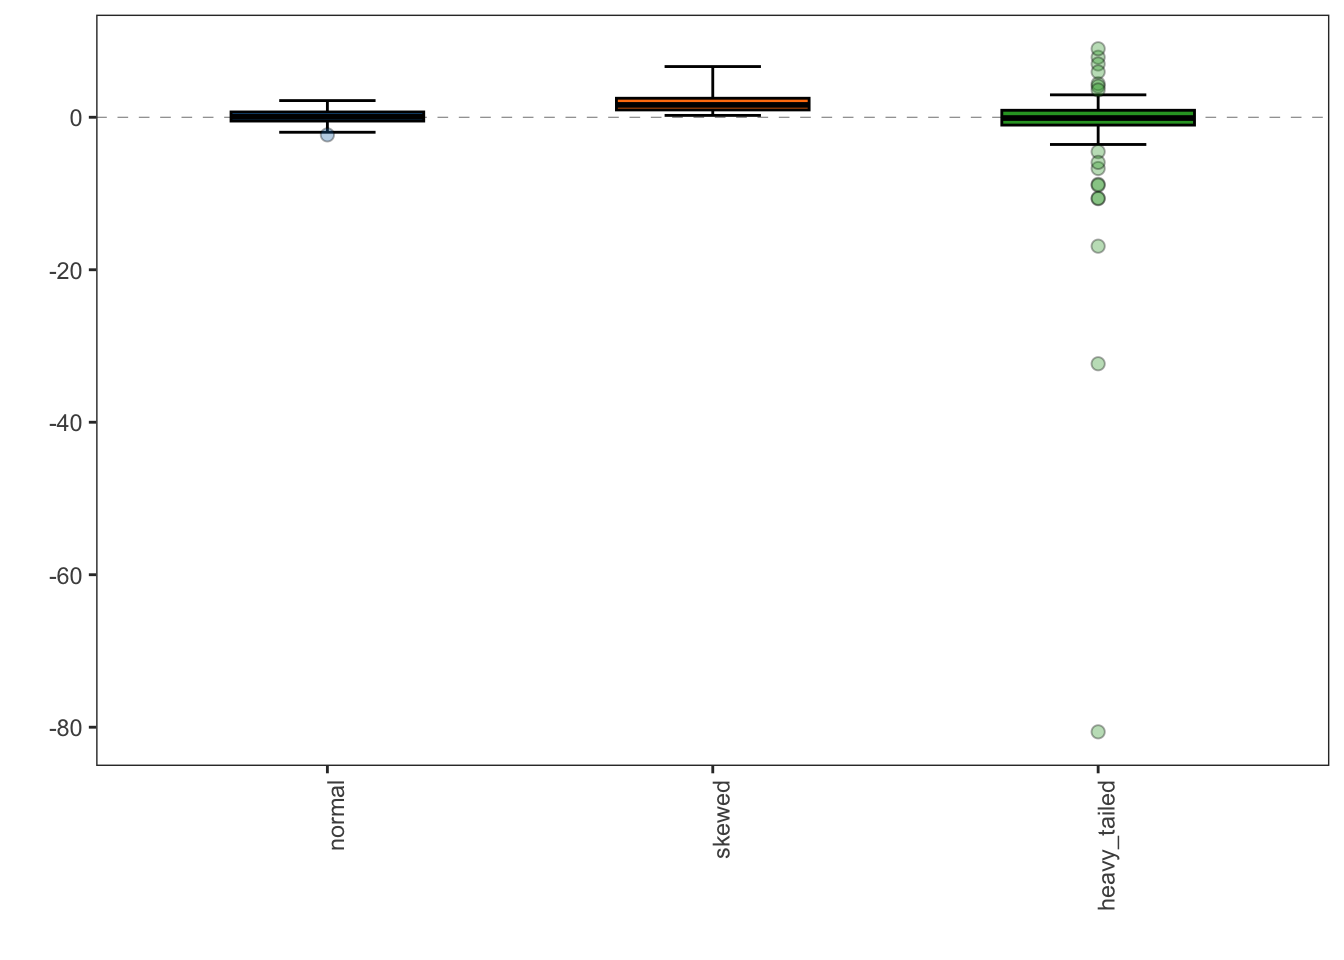
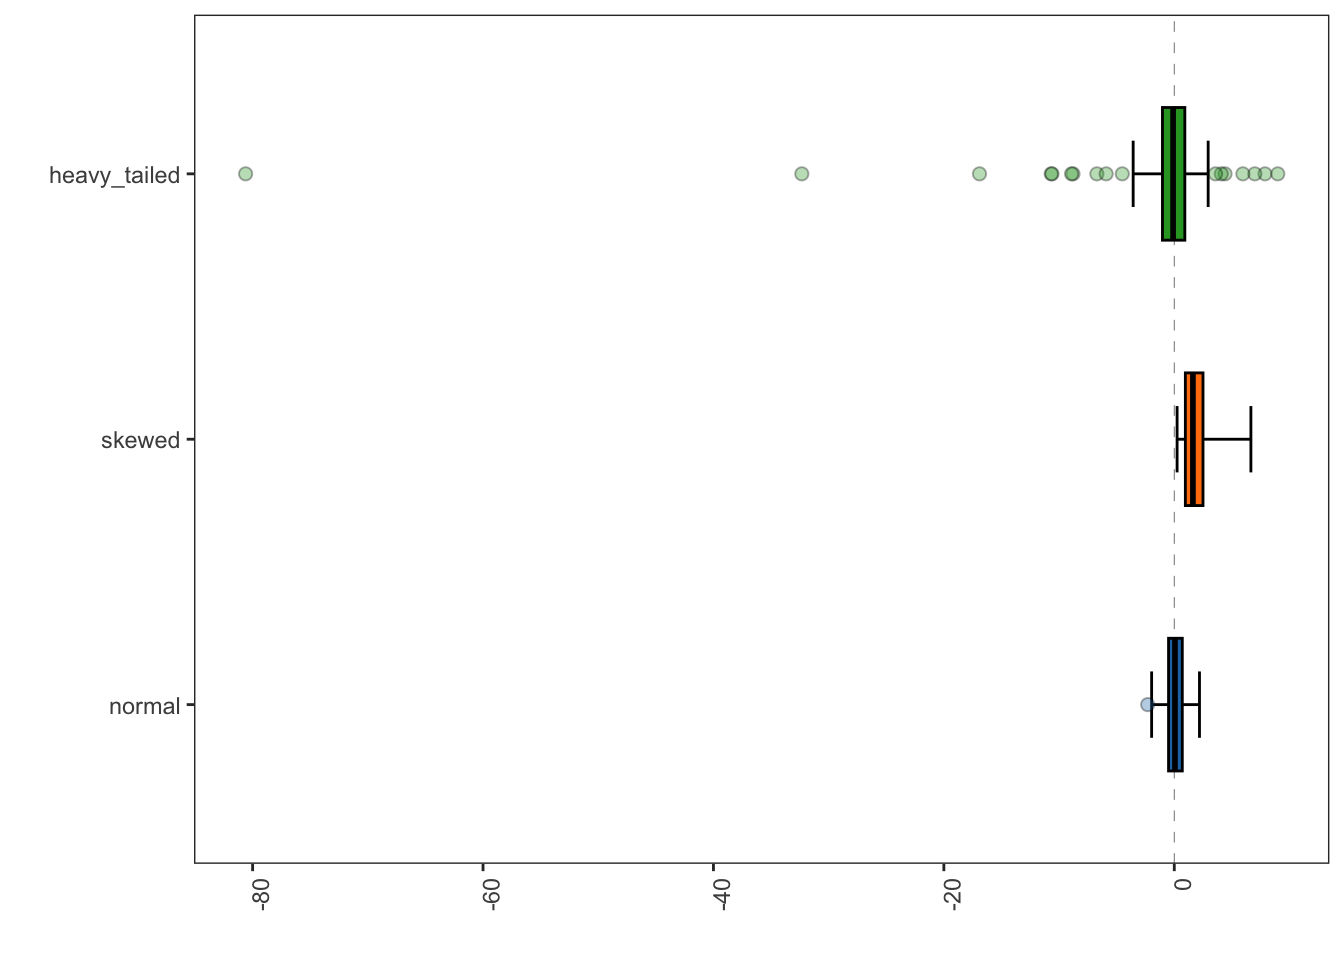
Updates

diff --git a/README.md b/README.md
@@ -86,7 +86,8 @@ specProc::summaryStats(tbl, robust = TRUE)
 
 ``` r
 specProc::adjboxplot(tbl) +
-  ggplot2::geom_hline(yintercept = 0, linetype = "dashed", linewidth = 0.1)
+  ggplot2::geom_hline(yintercept = 0, linetype = "dashed", linewidth = 0.1) +
+  ggplot2::coord_flip()
 ```
 
 <img src="man/figures/README-unnamed-chunk-7-1.png" width="90%" height="90%" />
